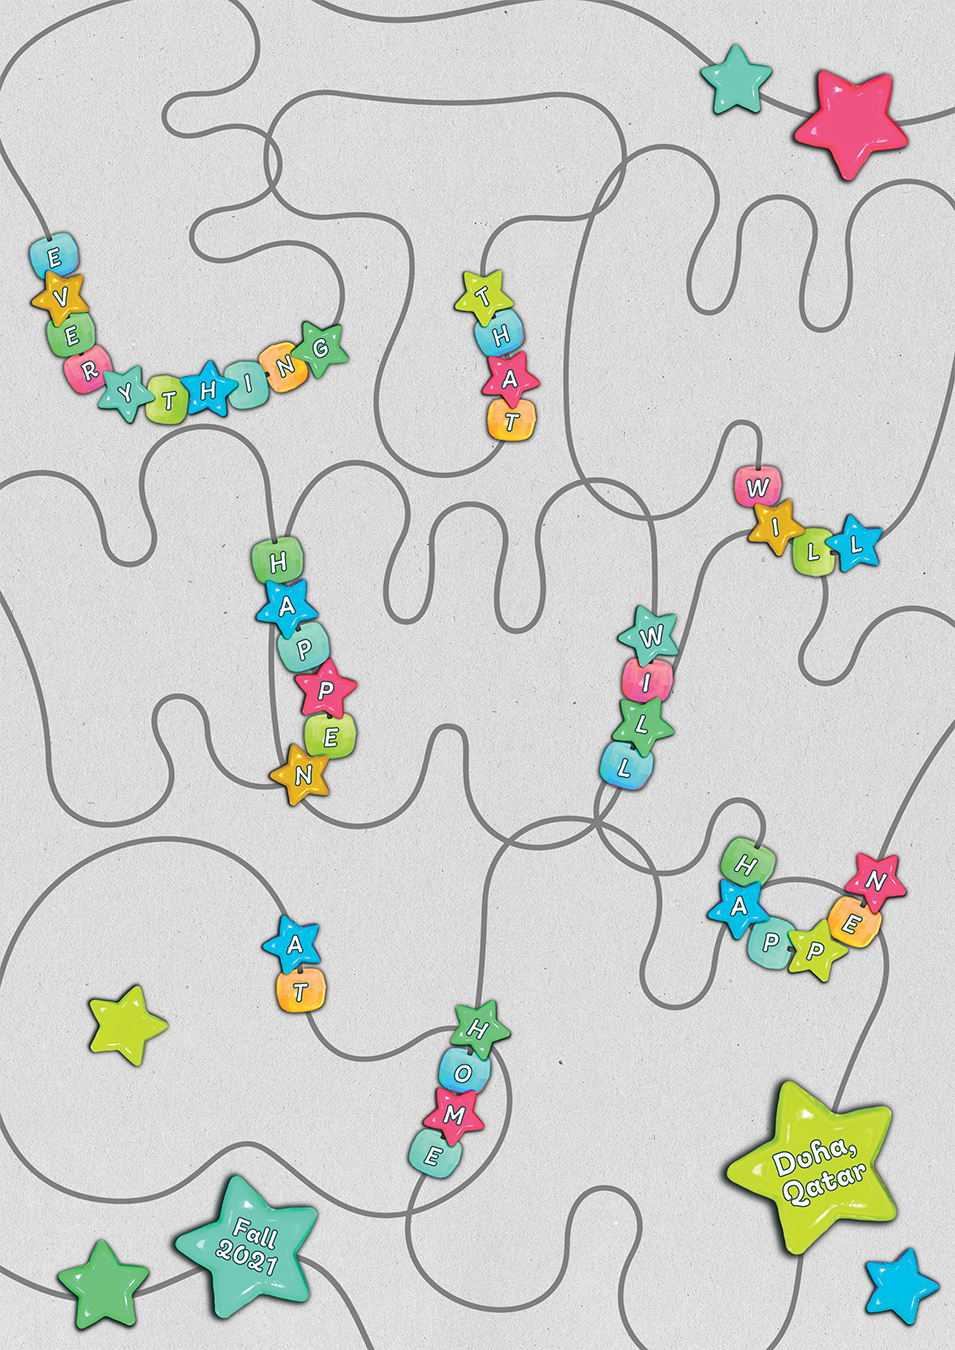
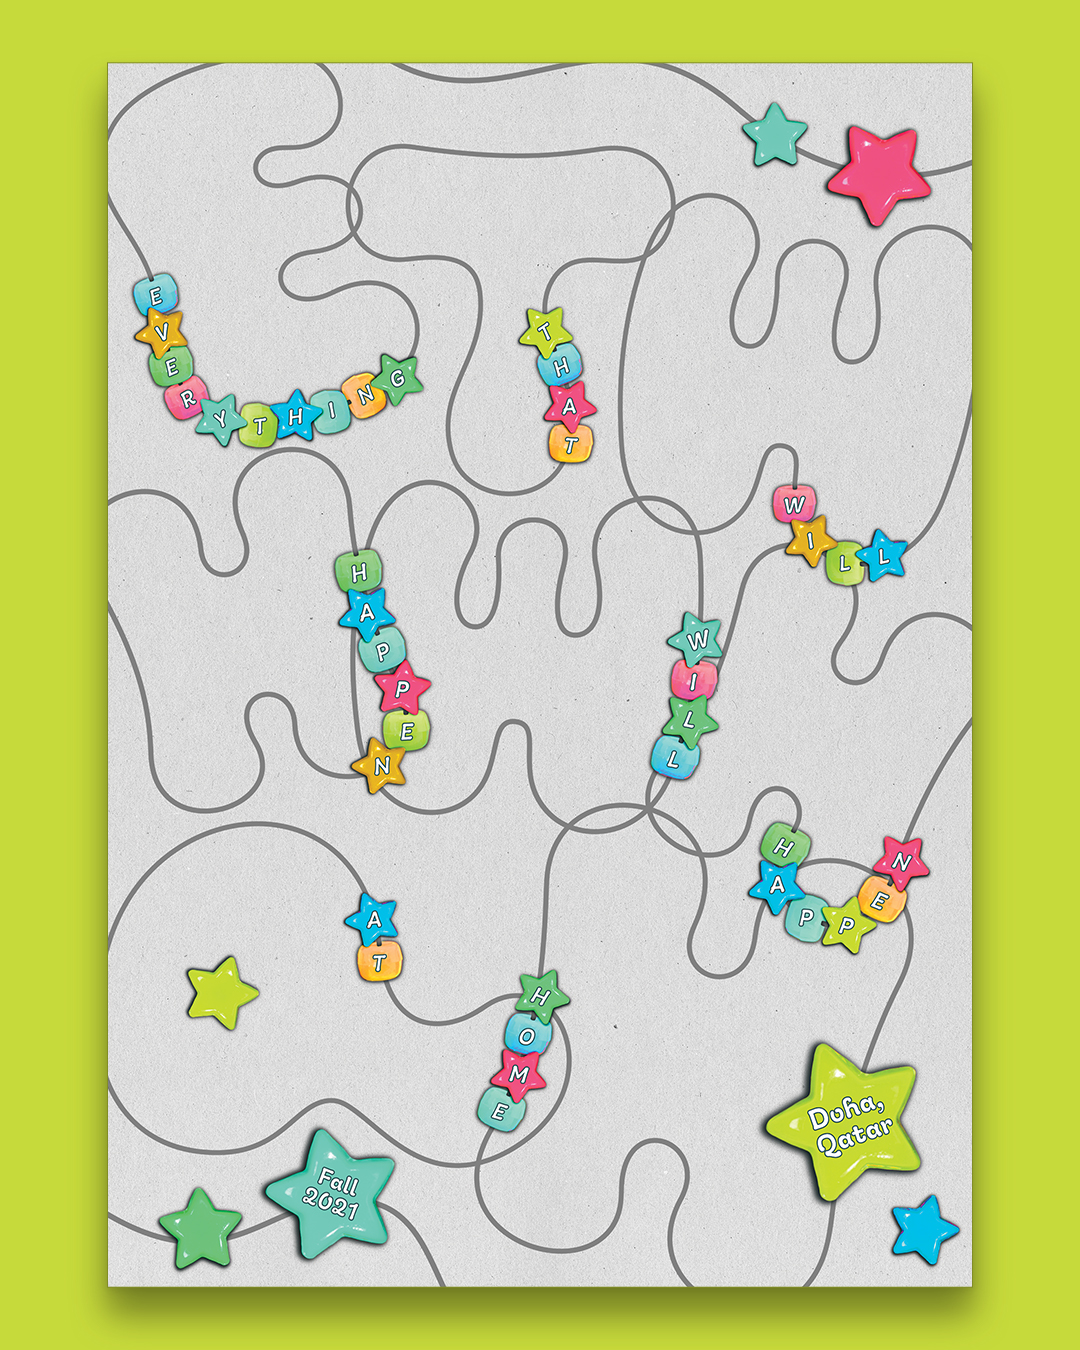
update

diff --git a/design.html b/design.html
@@ -9,7 +9,7 @@
     <link rel="stylesheet" href="https://use.typekit.net/ijn4qon.css">
     <link rel="icon" type="image/png" href="favicon.png">
   </head>
- 
+
   <body>
     <div id="button" onclick="toggle()"></div>
 
@@ -32,34 +32,38 @@
 
     <div class="wrapper">
       <div>
+        <a href="posters.html" class="content"><img src="design/posters.gif" alt="posters" width="35%"></a>
+      </div>
+      <div>
+        <a href="brat.html" class="content"><img src="design/brat/brat.png" alt="brat merchandise" width="35%"></a>
+      </div>
+      <div>
         <a href="sour.html" class="content"><img src="design/sour/sour.gif" alt="sour merchandise" width="42%"></a>
       </div>
       <div>
         <a href="amoris.html" class="content"><img src="design.png" alt="amoris project" width="50%"></a>
       </div>
       <div>
-        <a href="not-a-phase/index.html" target="_blank" class="content"><img src="design/itsnotaphase.gif" alt="it's not a phase" width="42%"></a>
+        <a href="shirt.html" class="content"><img src="design/shirt/shirt1.jpg" alt="sublimation t-shirt" width="35%"></a>
       </div>
       <div>
-        <a href="posters.html" class="content"><img src="design/posters.gif" alt="posters" width="35%"></a>
-      </div>
-      <div>
-        <a href="home.html" class="content"><img src="design/home.gif" alt="homepage project" width="48%"></a>
-      </div>
-      <div>
-        <a href="music-posters.html" class="content"><img src="design/music-posters/s2ep3.png" alt="music posters" width="35%"></a>
-      </div>
-      <div>
-        <a href="dontpanic.html" class="content"><img src="design/dontpanic/dontpanic2.gif" alt="Don't Panic!" width="35%"></a>
+        <a href="" class="content"><img src="design/ads/henan.png" alt="ads" width="50%"></a>
       </div>
       <div>
         <a href="cei.html" class="content"><img src="design/cei.gif" alt="VCU CEI" width="48%" style="border: 1px solid black"></a>
       </div>
       <div>
-        <a href="broadsheet.html" class="content"><img src="design/broadsheet.gif" alt="queer revolution broadsheet" width="35%"></a>
+        <a href="music-posters.html" class="content"><img src="design/music-posters/s2ep3.png" alt="music posters" width="35%"></a>
       </div>
       <div>
         <a href="smokefall.html" class="content"><img src="design/smokefall.png" alt="smokefall program" width="50%"></a>
+      </div>
+      <div>
+        <a href="broadsheet.html" class="content"><img src="design/broadsheet.gif" alt="queer revolution broadsheet" width="35%"></a>
+      </div>
+
+      <div>
+        <a href="home.html" class="content"><img src="design/home.gif" alt="homepage project" width="48%"></a>
       </div>
       <div>
         <a href="collages.html" class="content"><img src="design/collage.gif" alt="collages" width="35%"></a>

diff --git a/brat.html b/brat.html
@@ -1,0 +1,55 @@
+<!doctype html>
+<html lang="en">
+<html>
+  <head>
+    <title>elora romo</title>
+    <meta charset="utf-8">
+    <meta name="viewport" content="width=device-width, initial-scale:1.0">
+    <link rel="stylesheet" href="main.css">
+    <link rel="stylesheet" href="https://use.typekit.net/ijn4qon.css">
+    <link rel="icon" type="image/png" href="favicon.png">
+  </head>
+
+  <body>
+    <div id="button" onclick="toggle()"></div>
+
+    <div id="menu" onclick="toggle()">
+      <a href="design.html" onMouseOver="this.style.background='black'"
+      onMouseOut="this.style.background='none'">design</a>
+      <br>
+      <a href="printmaking.html" onMouseOver="this.style.background='black'"
+      onMouseOut="this.style.background='none'">printmaking</a>
+      <br>
+      <a href="collaboration.html" onMouseOver="this.style.background='black'"
+      onMouseOut="this.style.background='none'">collaboration</a>
+      <br>
+      <a href="about.html" onMouseOver="this.style.background='black'"
+      onMouseOut="this.style.background='none'">about/contact</a>
+      <br>
+    </div>
+
+    <a href="index.html"><img src="logo.png" alt="elora romo" width="40%" id="logo"></a>
+
+    <div class="description3">
+      <p>Concept poster and sweatshirt design for 360 by Charli xcx, from the album "brat"</p>
+    </div>
+
+    <div class="wrapper2">
+
+      <div class="content">
+        <img src="design/brat/brat.png" alt="bright green and pink poster that reads 'i'm your favorite reference baby' and 'charli xcx' in pixel font" width="90%">
+      </div>
+      <div class="content">
+        <img src="design/brat/brat2.png" alt="two sweatshirt mockups, one black and one bright green, showcasing two color variations of the same design" width="90%">
+      </div>
+
+    </div>
+
+    <script>
+      function toggle() {
+        var menu = document.getElementById("menu");
+        menu.classList.toggle("active");
+      }
+    </script>
+  </body>
+</html>

diff --git a/shirt.html b/shirt.html
@@ -1,0 +1,55 @@
+<!doctype html>
+<html lang="en">
+<html>
+  <head>
+    <title>elora romo</title>
+    <meta charset="utf-8">
+    <meta name="viewport" content="width=device-width, initial-scale:1.0">
+    <link rel="stylesheet" href="main.css">
+    <link rel="stylesheet" href="https://use.typekit.net/ijn4qon.css">
+    <link rel="icon" type="image/png" href="favicon.png">
+  </head>
+
+  <body>
+    <div id="button" onclick="toggle()"></div>
+
+    <div id="menu" onclick="toggle()">
+      <a href="design.html" onMouseOver="this.style.background='black'"
+      onMouseOut="this.style.background='none'">design</a>
+      <br>
+      <a href="printmaking.html" onMouseOver="this.style.background='black'"
+      onMouseOut="this.style.background='none'">printmaking</a>
+      <br>
+      <a href="collaboration.html" onMouseOver="this.style.background='black'"
+      onMouseOut="this.style.background='none'">collaboration</a>
+      <br>
+      <a href="about.html" onMouseOver="this.style.background='black'"
+      onMouseOut="this.style.background='none'">about/contact</a>
+      <br>
+    </div>
+
+    <a href="index.html"><img src="logo.png" alt="elora romo" width="40%" id="logo"></a>
+
+    <div class="description3">
+      <p>Illustration, printed via sublimation onto a T-shirt</p>
+    </div>
+
+    <div class="wrapper2">
+
+      <div class="content">
+        <img src="design/shirt/shirt1.jpg" alt="" width="90%">
+      </div>
+      <div class="content">
+        <img src="design/shirt/shirt2.jpg" alt="" width="90%">
+      </div>
+
+    </div>
+
+    <script>
+      function toggle() {
+        var menu = document.getElementById("menu");
+        menu.classList.toggle("active");
+      }
+    </script>
+  </body>
+</html>

diff --git a/posters.html b/posters.html
@@ -40,7 +40,7 @@
         <img src="design/posters/shawne.gif" alt="poster for Shawne Michaelain Holloway artist talk" width="90%">
       </div>
       <div class="content">
-        <img src="design/posters/etwhwhah2.jpg" alt="poster for Everything That Will Happen Will Happen at Home exhibition" width="90%">
+        <img src="design/posters/etwhwhah.jpg" alt="poster for Everything That Will Happen Will Happen at Home exhibition" width="90%">
       </div>
       <div class="content">
         <img src="design/posters/nicolekillian.jpg" alt="poster for 'tending to the garden: manifesting queer praxis' lecture with nicole killian" width="90%">
@@ -49,13 +49,13 @@
         <img src="design/posters/kimihanauer.jpg" alt="poster for Kimi Hanauer artist talk" width="90%">
       </div>
       <div class="content">
-        <img src="design/posters/pechakucha2.jpg" alt="poster for VCU GDES faculty Pecha Kucha" width="90%">
+        <img src="design/posters/pechakucha.jpg" alt="poster for VCU GDES faculty Pecha Kucha" width="90%">
       </div>
       <div class="content">
         <img src="design/posters/emilysara.jpg" alt="poster for Emily Sara artist talk" width="90%">
       </div>
       <div class="content">
-        <img src="design/posters/gdes-social2.jpg" alt="poster for VCU GDES student social" width="90%">
+        <img src="design/posters/gdes-social.jpg" alt="poster for VCU GDES student social" width="90%">
       </div>
     </div>
 

diff --git a/collaboration.html b/collaboration.html
@@ -50,9 +50,6 @@
         <a href="indecent-materials.html" class="content"><img src="collab/indecent-materials/type1.png" alt="indecent materials" width="48%"></a>
       </div>
       <div>
-        <a href="hardpills.html" class="content"><img src="collab/hard-pills.png" alt="hard pills to swallow" width="35%"></a>
-      </div>
-      <div>
         <a href="reconnect.html" class="content"><img src="collab/reconnect.gif" alt="reconnect festival" width="42%"></a>
       </div>
     </div>

diff --git a/amoris.html b/amoris.html
@@ -39,13 +39,6 @@
       </div>
 
       <div class="description">
-        Poster showcasing typeface
-      </div>
-      <div class="content">
-        <img src="design/amoris/amoris-poster.jpg" width="45%">
-      </div>
-
-      <div class="description">
         Mock-ups of spreads from the publication
       </div>
       <div class="content">
